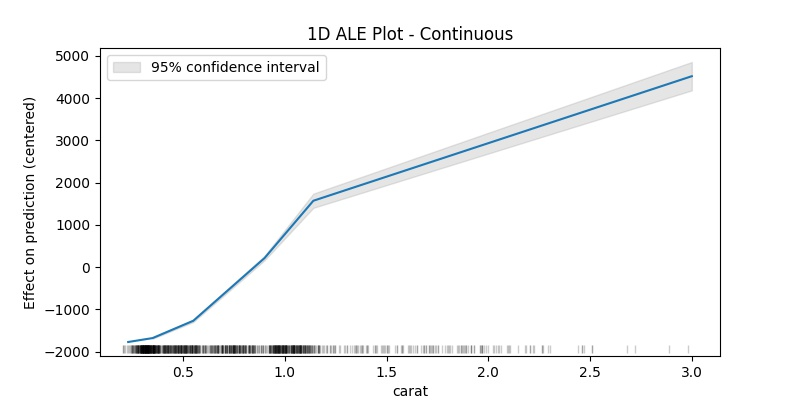
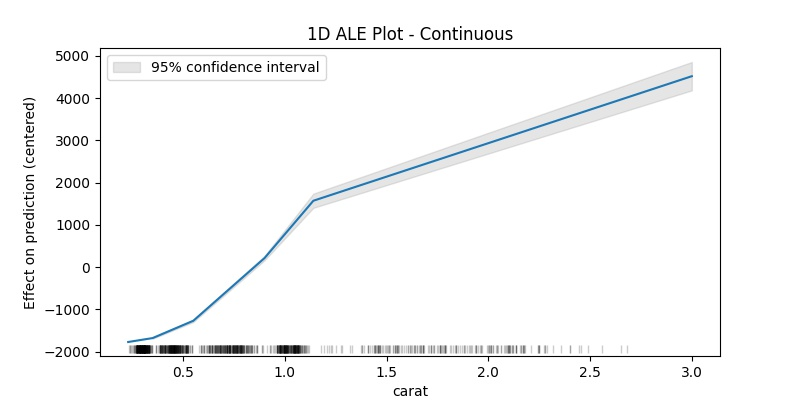
Starting the official versioning; fix bug in the 1D continuous plotting function (jitter position)

Changed region(s): [[0.1562, 0.84, 0.6875, 0.9], [0.7188, 0.87, 0.75, 0.9]]

diff --git a/PyALE/_src/ALE_1D.py b/PyALE/_src/ALE_1D.py
@@ -6,6 +6,7 @@ import matplotlib.transforms as mtrans
 
 from .lib import quantile_ied, CI_estimate
 
+
 def aleplot_1D_continuous(X, model, feature, grid_size=20, include_CI=True, C=0.95):
     """Compute the accumulated local effect of a numeric continuous feature.
     
@@ -89,12 +90,12 @@ def aleplot_1D_discrete(X, model, feature, include_CI=True, C=0.95):
     groups = X[feature].unique()
     groups.sort()
     groups_codes = [x for x in range(len(groups))]
-    
+
     groups_counts = X.groupby(feature).size()
     groups_props = groups_counts / sum(groups_counts)
-    
+
     K = len(groups)
-    
+
     # create copies of the dataframe
     X_plus = X.copy()
     X_neg = X.copy()
@@ -113,7 +114,7 @@ def aleplot_1D_discrete(X, model, feature, include_CI=True, C=0.95):
     # compute prediction difference
     Delta_plus = y_hat_plus - y_hat[ind_plus]
     Delta_neg = y_hat[ind_neg] - y_hat_neg
-    
+
     # compute the mean of the difference per group
     delta_df = pd.concat(
         [
@@ -128,13 +129,15 @@ def aleplot_1D_discrete(X, model, feature, include_CI=True, C=0.95):
     res_df["eff"] = res_df["eff"] - sum(res_df["eff"] * groups_props)
     res_df["size"] = groups_counts
     if include_CI:
-      ci_est = delta_df.groupby([feature]).eff.agg([("CI_estimate", lambda x: CI_estimate(x, C=C))])
-      lowerCI_name = "lowerCI_" + str(int(C * 100)) + "%"
-      upperCI_name = "upperCI_" + str(int(C * 100)) + "%"
-      res_df[lowerCI_name] = res_df[["eff"]].subtract(ci_est["CI_estimate"], axis=0)
-      res_df[upperCI_name] = upperCI = res_df[["eff"]].add(
-          ci_est["CI_estimate"], axis=0
-      )
+        ci_est = delta_df.groupby([feature]).eff.agg(
+            [("CI_estimate", lambda x: CI_estimate(x, C=C))]
+        )
+        lowerCI_name = "lowerCI_" + str(int(C * 100)) + "%"
+        upperCI_name = "upperCI_" + str(int(C * 100)) + "%"
+        res_df[lowerCI_name] = res_df[["eff"]].subtract(ci_est["CI_estimate"], axis=0)
+        res_df[upperCI_name] = upperCI = res_df[["eff"]].add(
+            ci_est["CI_estimate"], axis=0
+        )
     return res_df
 
 
@@ -149,20 +152,27 @@ def plot_1D_continuous_eff(res_df, X, fig=None, ax=None):
     """
 
     feature_name = res_df.index.name
-    rug = X[feature_name]
     # position: jitter
-    jitter_max_step_per_bin = (res_df.index - res_df.index.to_series().shift(1)) * 0.3
-    jitter_max_step = jitter_max_step_per_bin.iloc[
-        (
-            pd.cut(
+    # to see the distribution of the data points clearer, each point x will be nudged a random value between
+    # -0.5*(distance from the bin's lower value) and +0.5*(distance from bin's upper value)
+    jitter_limits = pd.DataFrame(
+        {
+            "x": X[feature_name],
+            "bin_code": pd.cut(
                 X[feature_name], res_df.index.to_list(), include_lowest=True
             ).cat.codes
-            + 1
-        ).to_list()
-    ]
-
+            + 1,
+        }
+    ).assign(
+        jitter_step_min=lambda df: (df["x"] - res_df.index[df["bin_code"] - 1]) * 0.5,
+        jitter_step_max=lambda df: (res_df.index[df["bin_code"]] - df["x"]) * 0.5,
+    )
     np.random.seed(123)
-    rug = [x + np.random.uniform(-y, y) for x, y in zip(rug, jitter_max_step)]
+    rug = jitter_limits.apply(
+        lambda row: row["x"]
+        + np.random.uniform(-row["jitter_step_min"], row["jitter_step_max"]),
+        axis=1,
+    )
 
     if fig is None and ax is None:
         fig, ax = plt.subplots(figsize=(8, 4))
@@ -210,23 +220,24 @@ def plot_1D_discrete_eff(res_df, X, fig=None, ax=None):
         fig, ax = plt.subplots(figsize=(8, 4))
     ax.set_xlabel(feature_name)
     ax.set_ylabel("Effect on prediction (centered)")
-    yerr=0
+    yerr = 0
     lowerCI_name = res_df.columns[res_df.columns.str.contains("lowerCI")]
     upperCI_name = res_df.columns[res_df.columns.str.contains("upperCI")]
     if (len(lowerCI_name) == 1) and (len(upperCI_name) == 1):
-      yerr = res_df[upperCI_name].subtract(res_df['eff'], axis=0).iloc[:, 0]
-    ax.errorbar(res_df.index.astype(str), 
-            res_df['eff'], 
-            yerr=yerr,
-            capsize=3,      
-            marker='o',   
-            linestyle='dashed',
-            color='black',
-            )
-    ax2 = ax.twinx()  
-    ax2.set_ylabel('Size', color='lightblue') 
-    ax2.bar(res_df.index.astype(str), res_df['size'], alpha=0.1, align='center')
-    ax2.tick_params(axis='y', labelcolor='lightblue')
+        yerr = res_df[upperCI_name].subtract(res_df["eff"], axis=0).iloc[:, 0]
+    ax.errorbar(
+        res_df.index.astype(str),
+        res_df["eff"],
+        yerr=yerr,
+        capsize=3,
+        marker="o",
+        linestyle="dashed",
+        color="black",
+    )
+    ax2 = ax.twinx()
+    ax2.set_ylabel("Size", color="lightblue")
+    ax2.bar(res_df.index.astype(str), res_df["size"], alpha=0.1, align="center")
+    ax2.tick_params(axis="y", labelcolor="lightblue")
     ax2.set_title("1D ALE Plot - Discrete/Categorical")
-    fig.tight_layout() 
+    fig.tight_layout()
     return fig, ax, ax2

diff --git a/setup.py b/setup.py
@@ -5,7 +5,7 @@ with open("README.md", "r") as fh:
 
 setuptools.setup(
     name="PyALE",  
-    version="0.1.0",
+    version="0.1.1",
     author="Dana Jomar",
     author_email="dana.jomar@outlook.com",
     description="ALE plots with python",
